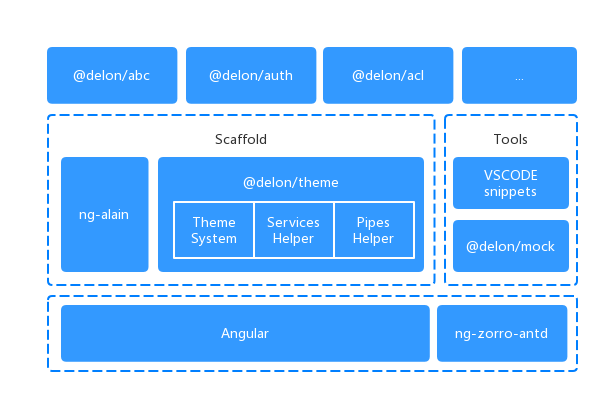
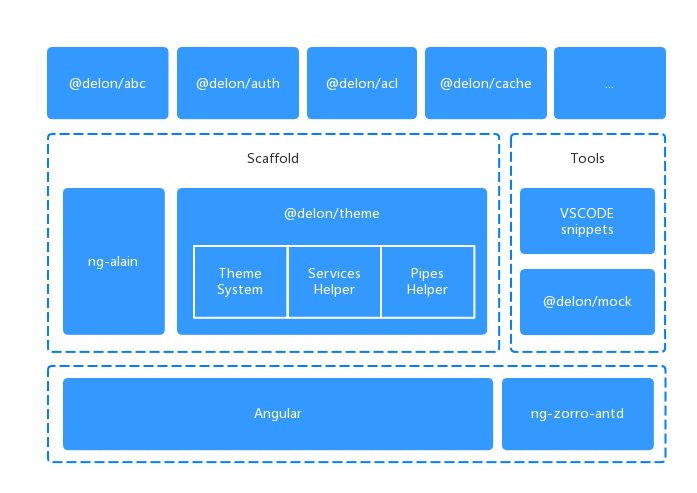
release: 0.6.0-rc.1

Changed region(s): [[0.0624, 0.0896, 0.9672, 0.9552], [0.3432, 0.806, 0.4368, 0.8657]]

diff --git a/docs/changelog.md b/docs/changelog.md
@@ -6,12 +6,27 @@ title:
 type: Other
 ---
 
+### 0.6.0-rc.1 (@next)
+
+`2018-1-8`
+
+- ng-alain 脚手架
+    - **BREAKING CHANGES** 优化模块注册指导原则，[#commit](https://github.com/cipchk/ng-alain/commit/7b6de512d2bd6cb99a1d576eedd4ad9ea0808352)，[#180](https://github.com/cipchk/ng-alain/issues/180)
+    - 新增 `cache`、`acl-guard` 通用路由守卫示例页
+    - 新增主菜单二级支持收缩，[#177](https://github.com/cipchk/ng-alain/issues/177)
+- @delon/theme
+    - 优化 `MenuService` 自动处理 `acl` 属性值
+- @delon/acl
+    - 新增通用ACL路由守卫方法，[Document](//ng-alain.com/docs/acl)
+- @delon/cache
+    - 缓存类型，解决字典、城市等缓存问题，[Document](//ng-alain.com/docs/cache)
+
 ### 0.5.0
 
 `2018-1-5`
 
 - ng-alain 脚手架
-    - 新增 `full-content`、`zip`、`full-content` 示例页
+    - 新增 `full-content`、`zip`、`xlsx` 示例页
 - @delon/theme
     - 修复快捷菜单项 `externalLink` 属性无效值问题，[#169](https://github.com/cipchk/ng-alain/issues/169)
 - @delon/abc

diff --git a/docs/getting-started.en-US.md b/docs/getting-started.en-US.md
@@ -19,6 +19,7 @@ ng-alain is a production-ready solution for admin interfaces based on ng-zorro-a
 | @delon/acl | [![NPM version](https://img.shields.io/npm/v/@delon/acl.svg)](https://www.npmjs.com/package/@delon/acl) | [![NPM version](https://img.shields.io/npm/v/@delon/acl/next.svg)](https://www.npmjs.com/package/@delon/acl) |
 | @delon/auth | [![NPM version](https://img.shields.io/npm/v/@delon/auth.svg)](https://www.npmjs.com/package/@delon/auth) | [![NPM version](https://img.shields.io/npm/v/@delon/auth/next.svg)](https://www.npmjs.com/package/@delon/auth) |
 | @delon/mock | [![NPM version](https://img.shields.io/npm/v/@delon/mock.svg)](https://www.npmjs.com/package/@delon/mock) | [![NPM version](https://img.shields.io/npm/v/@delon/mock/next.svg)](https://www.npmjs.com/package/@delon/mock) |
+| @delon/cache | - | [![NPM version](https://img.shields.io/npm/v/@delon/cache/next.svg)](https://www.npmjs.com/package/@delon/cache) |
 
 ## Installation
 

diff --git a/README.md b/README.md
@@ -17,6 +17,7 @@ delong is a production-ready solution for admin business components packages, Bu
 | @delon/acl | [![NPM version](https://img.shields.io/npm/v/@delon/acl.svg)](https://www.npmjs.com/package/@delon/acl) | [![NPM version](https://img.shields.io/npm/v/@delon/acl/next.svg)](https://www.npmjs.com/package/@delon/acl) |
 | @delon/auth | [![NPM version](https://img.shields.io/npm/v/@delon/auth.svg)](https://www.npmjs.com/package/@delon/auth) | [![NPM version](https://img.shields.io/npm/v/@delon/auth/next.svg)](https://www.npmjs.com/package/@delon/auth) |
 | @delon/mock | [![NPM version](https://img.shields.io/npm/v/@delon/mock.svg)](https://www.npmjs.com/package/@delon/mock) | [![NPM version](https://img.shields.io/npm/v/@delon/mock/next.svg)](https://www.npmjs.com/package/@delon/mock) |
+| @delon/cache | - | [![NPM version](https://img.shields.io/npm/v/@delon/cache/next.svg)](https://www.npmjs.com/package/@delon/cache) |
 
 ## Links
 
